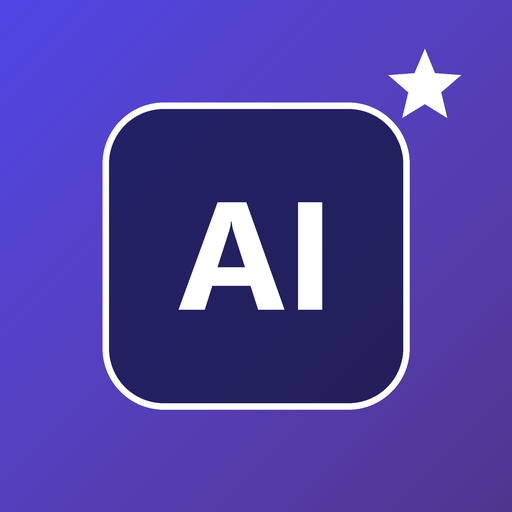
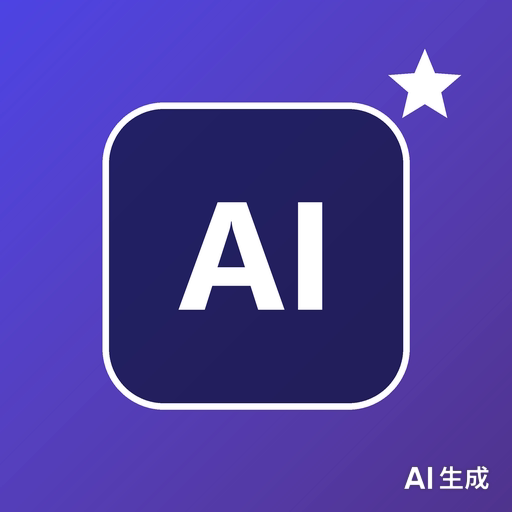
release v1.1.1: clean frontmatter, Chinese display name

Changed region(s): [[0.7812, 0.9062, 0.9688, 0.9688], [0.1875, 0.3125, 0.2188, 0.6875]]

diff --git a/SKILL.md b/SKILL.md
@@ -1,31 +1,12 @@
 ---
-AIGC:
-    Label: "1"
-    ContentProducer: 001191440300708461136T1XGW3
-    ProduceID: ce3f8cef097dc1f6809fc41965e9d97c_4e31e9ddd02311f19f8752540064ee0f
-    ReservedCode1: iJw+xcrH1yBRF19qFgxY2LQ8JIK40bYHa2Pwqzh+nRrUmsnOC6PSYjwz5k/XX8oJaw7U+ngUGhaFI5DYWaoY9z1GUCyK3dtgVS87lcPnoCYoVS/dRUXePPbfCV5MspWoiJfeUOkuAmuQU3udYlCkPJeV+ayN1prQYqp97mQy3fWhc1YRBhH+Kwcu3E4=
-    ContentPropagator: 001191440300708461136T1XGW3
-    PropagateID: ce3f8cef097dc1f6809fc41965e9d97c_4e31e9ddd02311f19f8752540064ee0f
-    ReservedCode2: iJw+xcrH1yBRF19qFgxY2LQ8JIK40bYHa2Pwqzh+nRrUmsnOC6PSYjwz5k/XX8oJaw7U+ngUGhaFI5DYWaoY9z1GUCyK3dtgVS87lcPnoCYoVS/dRUXePPbfCV5MspWoiJfeUOkuAmuQU3udYlCkPJeV+ayN1prQYqp97mQy3fWhc1YRBhH+Kwcu3E4=
----
-
----
-AIGC:
-    Label: "1"
-    ContentProducer: 001191440300708461136T1XGW3
-    ProduceID: ce3f8cef097dc1f6809fc41965e9d97c_dd50c01bcf6e11f19f8752540064ee0f
-    ReservedCode1: cD8UlEwKM5kI0/tCkH17lFL9YLznnWECimvcx6OfHFIDcZGFDJSxcvmuGzalYzdJES47lkuUY77p3CkMH1rTmKiE6kLhhsnvYtwm9uZCUDuZT8FLzNmHaXjQaGJUr7ReUcj1rdxIu5bo6FEUNKP9e0Km5ncTXoGFU2ZneEqqD2vAWjEBupK9BWixzxE=
-    ContentPropagator: 001191440300708461136T1XGW3
-    PropagateID: ce3f8cef097dc1f6809fc41965e9d97c_dd50c01bcf6e11f19f8752540064ee0f
-    ReservedCode2: cD8UlEwKM5kI0/tCkH17lFL9YLznnWECimvcx6OfHFIDcZGFDJSxcvmuGzalYzdJES47lkuUY77p3CkMH1rTmKiE6kLhhsnvYtwm9uZCUDuZT8FLzNmHaXjQaGJUr7ReUcj1rdxIu5bo6FEUNKP9e0Km5ncTXoGFU2ZneEqqD2vAWjEBupK9BWixzxE=
 name: ai-tool-recommender
 display_name: AI工具推荐器
 display_name_en: "AI Tool Recommender"
-version: 1.1.0
+version: 1.1.1
 author: 台州银溪科技
-description: 用户问「我该装什么 SKILL / 帮我找能做XX的 SKILL / 推荐个工具」时，先读取本机 AI 客户端（WorkBuddy/Codex）会话记录确认真实诉求，再把任务拆解成若干子领域，从工具库为每个子领域匹配最合适的 SKILL 组成技能包，用实测记录/来源/安装量过滤低质项并附实测结论，最后一次性输出整套安装命令，按需自动安装合适的 SKILL 们，不用到处找；没有会话记录时用引导式追问确认需求后再执行。
-description_zh: "用户问「我该装什么 SKILL / 帮我找能做XX的 SKILL / 推荐个工具」时，先读取本机 AI 客户端（WorkBuddy/Codex）会话记录确认真实诉求，再把任务拆解成若干子领域，从工具库为每个子领域匹配最合适的 SKILL 组成技能包，用实测记录/来源/安装量过滤低质项并附实测结论，最后一次性输出整套安装命令，按需自动安装合适的 SKILL 们，不用到处找；没有会话记录时用引导式追问确认需求后再执行。"
-description_en: 'When the user asks "which SKILL should I install" or "help me find a tool for XX": first read local AI client (WorkBuddy/Codex) session logs to confirm the real intent, then break the task into sub-domains, match the best SKILL for each sub-domain from the tool library to form a SKILL pack, filter low-quality items using test records/sources/download counts and attach real test conclusions, finally output the full install command list so users can auto-install the right SKILLs without searching everywhere; if no session logs exist, ask guided follow-up questions first.'
+description: 说一句想做什么，自动配齐所需 SKILL。
+description_zh: 说一句想做什么，自动配齐所需 SKILL。
+description_en: 'Say what you want to do, and it assembles the SKILLs you need.'
 allowed-tools:
   - Read
   - Write
@@ -37,7 +18,9 @@ metadata:
   revision: "2026-10-31"
 ---
 
+**说一句想做什么，自动配齐所需 SKILL。**
 
+> 用户问「我该装什么 SKILL / 帮我找能做XX的 SKILL / 推荐个工具」时，先读取本机 AI 客户端（WorkBuddy/Codex）会话记录确认真实诉求，再把任务拆解成若干子领域，从工具库为每个子领域匹配最合适的 SKILL 组成技能包，用实测记录/来源/安装量过滤低质项并附实测结论，最后一次性输出整套安装命令，按需自动安装合适的 SKILL 们，不用到处找；没有会话记录时用引导式追问确认需求后再执行。
 
 # Skill-Recommender
 
@@ -145,4 +128,5 @@ metadata:
 
 - 不编造工具库中不存在的 SKILL 名称；匹配不到的子领域如实说明。
 - 所有推荐必须能追溯到工具库真实条目（id/name 唯一）。
+
 *（内容由AI生成，仅供参考）*

diff --git a/README.md b/README.md
@@ -1,17 +1,6 @@
----
-AIGC:
-    Label: "1"
-    ContentProducer: 001191440300708461136T1XGW3
-    ProduceID: ce3f8cef097dc1f6809fc41965e9d97c_4f751f90d02311f1acb8525400638852
-    ReservedCode1: ih2y6TX7FiaVCJl+04dfNdpBfobX/tMAYKE4pzMRoRzWvT7iW7nqjY+ZAtpDls4tGDHwGmzeekBIncvpiBlAjET7t/EWf+YZQ99pWQaAcDVHxnU02D/sEwFp3Y4TeP56YVixK56Nl22PGi8MAf1BBdfAxmJ9CJ7mZmeSI9ci3NtV/Y63UqaH34o0ztw=
-    ContentPropagator: 001191440300708461136T1XGW3
-    PropagateID: ce3f8cef097dc1f6809fc41965e9d97c_4f751f90d02311f1acb8525400638852
-    ReservedCode2: ih2y6TX7FiaVCJl+04dfNdpBfobX/tMAYKE4pzMRoRzWvT7iW7nqjY+ZAtpDls4tGDHwGmzeekBIncvpiBlAjET7t/EWf+YZQ99pWQaAcDVHxnU02D/sEwFp3Y4TeP56YVixK56Nl22PGi8MAf1BBdfAxmJ9CJ7mZmeSI9ci3NtV/Y63UqaH34o0ztw=
----
-
 # Skill-Recommender · AI 工具推荐器
 
-**按需自动安装合适的 SKILL 们，不用到处找。**
+**说一句想做什么，自动配齐所需 SKILL。**
 
 用户只需说清楚想做什么（如「帮我做一个心理学圆桌讨论网站」），本技能会：
 
